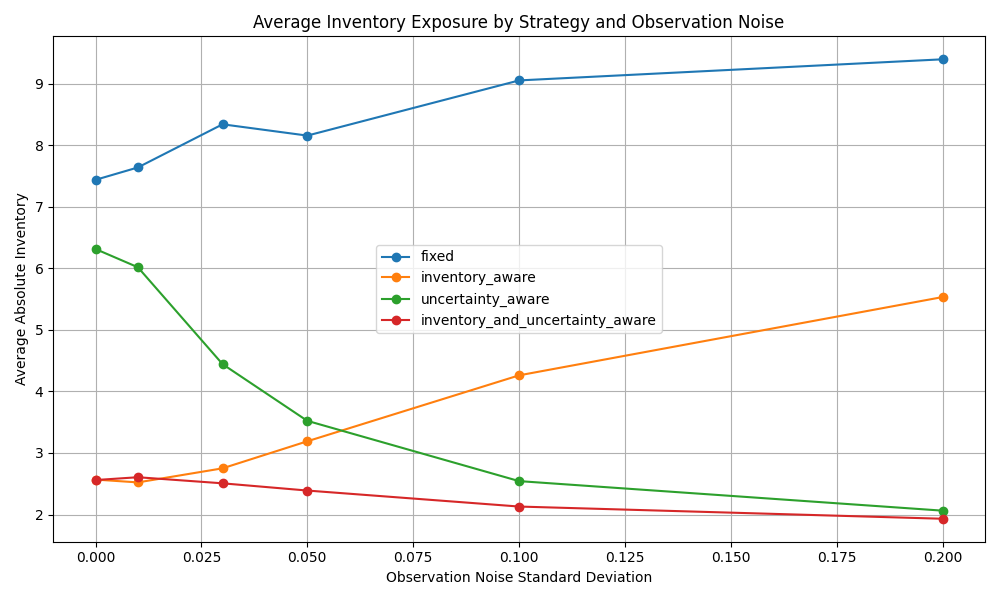
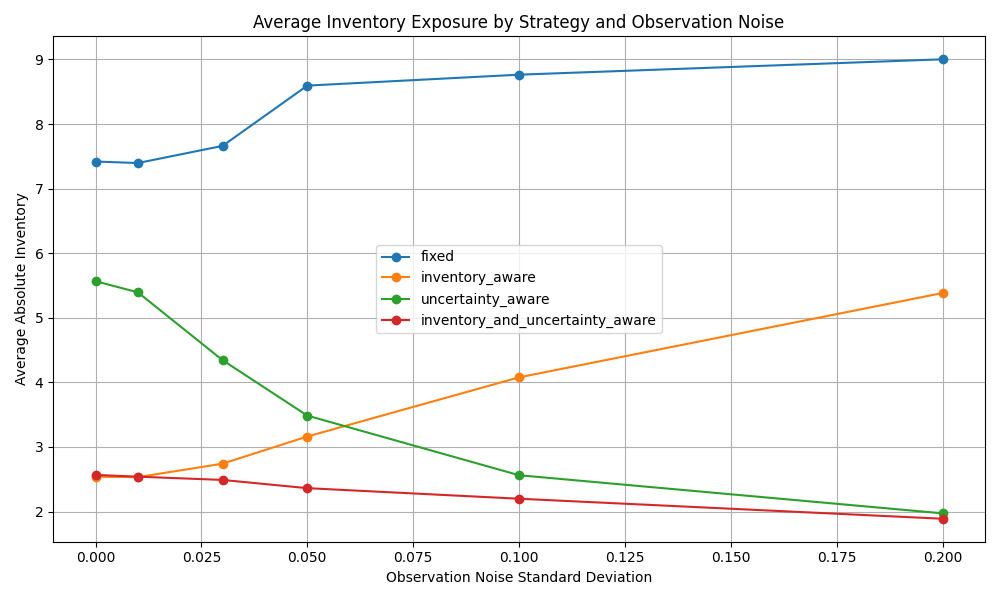
Use Brownian motion in experiments
Add random walk and arithmetic Brownian motion price processes with configurable drift, volatility, and timestep.

diff --git a/src/experiments.py b/src/experiments.py
@@ -22,6 +22,11 @@ def run_trials_for_strategy(
     risk_penalty,
     uncertainty_sensitivity,
     volatility_window,
+    price_process,
+    random_walk_step_size,
+    brownian_drift,
+    brownian_volatility,
+    dt,
 ):
     """
     Runs many simulations for one strategy under one noise level.
@@ -39,6 +44,11 @@ def run_trials_for_strategy(
             risk_penalty=risk_penalty,
             uncertainty_sensitivity=uncertainty_sensitivity,
             volatility_window=volatility_window,
+            price_process=price_process,
+            random_walk_step_size=random_walk_step_size,
+            brownian_drift=brownian_drift,
+            brownian_volatility=brownian_volatility,
+            dt=dt,
         )
         results.append(result)
 
@@ -107,6 +117,12 @@ def run_uncertainty_experiment():
     uncertainty_sensitivity = 3.0
     volatility_window = 50
 
+    price_process = "brownian"
+    random_walk_step_size = 0.01
+    brownian_drift = 0.0
+    brownian_volatility = 0.02
+    dt = 1.0    
+
     noise_levels = [0.00, 0.01, 0.03, 0.05, 0.10, 0.20]
 
     strategies = [
@@ -126,6 +142,10 @@ def run_uncertainty_experiment():
     print(f"Risk penalty: {risk_penalty}")
     print(f"Uncertainty sensitivity: {uncertainty_sensitivity}")
     print(f"Volatility window: {volatility_window}")
+    print(f"Price process: {price_process}")
+    print(f"Brownian drift: {brownian_drift}")
+    print(f"Brownian volatility: {brownian_volatility}")
+    print(f"dt: {dt}")
     print()
 
     print(
@@ -155,6 +175,11 @@ def run_uncertainty_experiment():
                 risk_penalty=risk_penalty,
                 uncertainty_sensitivity=uncertainty_sensitivity,
                 volatility_window=volatility_window,
+                price_process=price_process,
+                random_walk_step_size=random_walk_step_size,
+                brownian_drift=brownian_drift,
+                brownian_volatility=brownian_volatility,
+                dt=dt,
             )
 
             print_summary_row(
@@ -174,6 +199,11 @@ def run_uncertainty_experiment():
                 "risk_penalty": risk_penalty,
                 "uncertainty_sensitivity": uncertainty_sensitivity,
                 "volatility_window": volatility_window,
+                "price_process": price_process,
+                "random_walk_step_size": random_walk_step_size,
+                "brownian_drift": brownian_drift,
+                "brownian_volatility": brownian_volatility,
+                "dt": dt,
                 **summary,
             }
 
